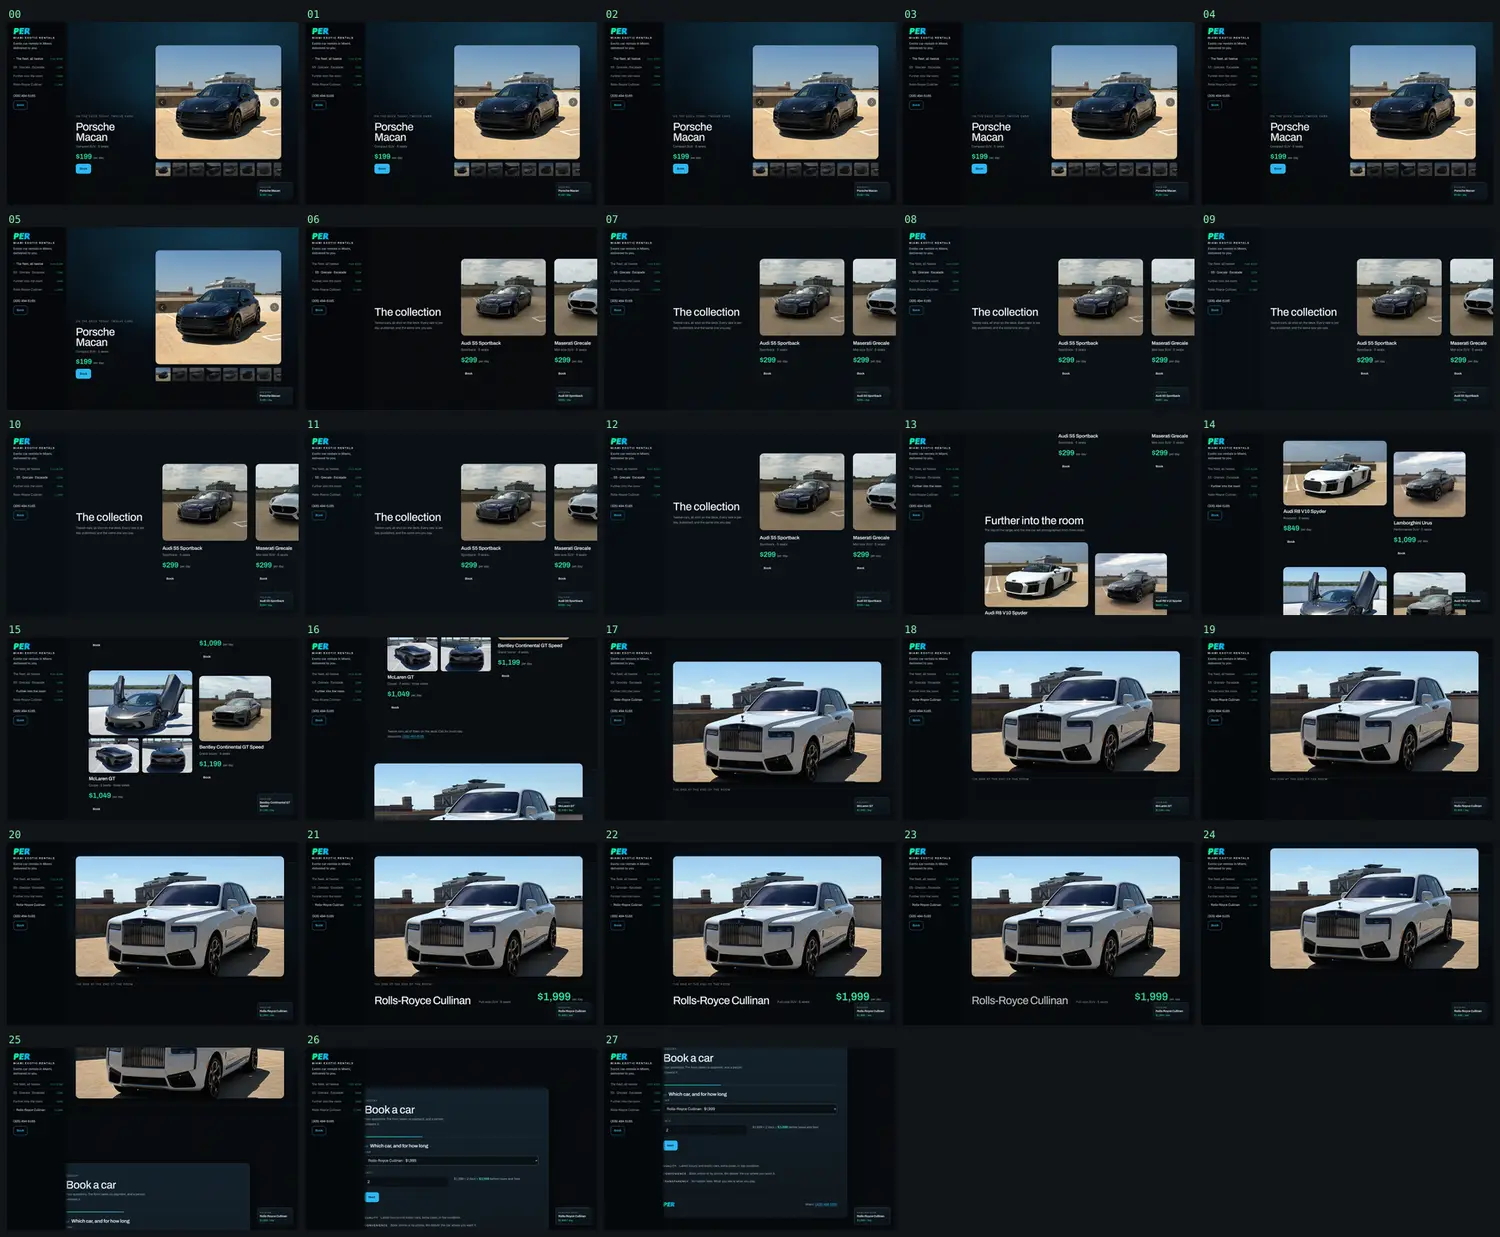
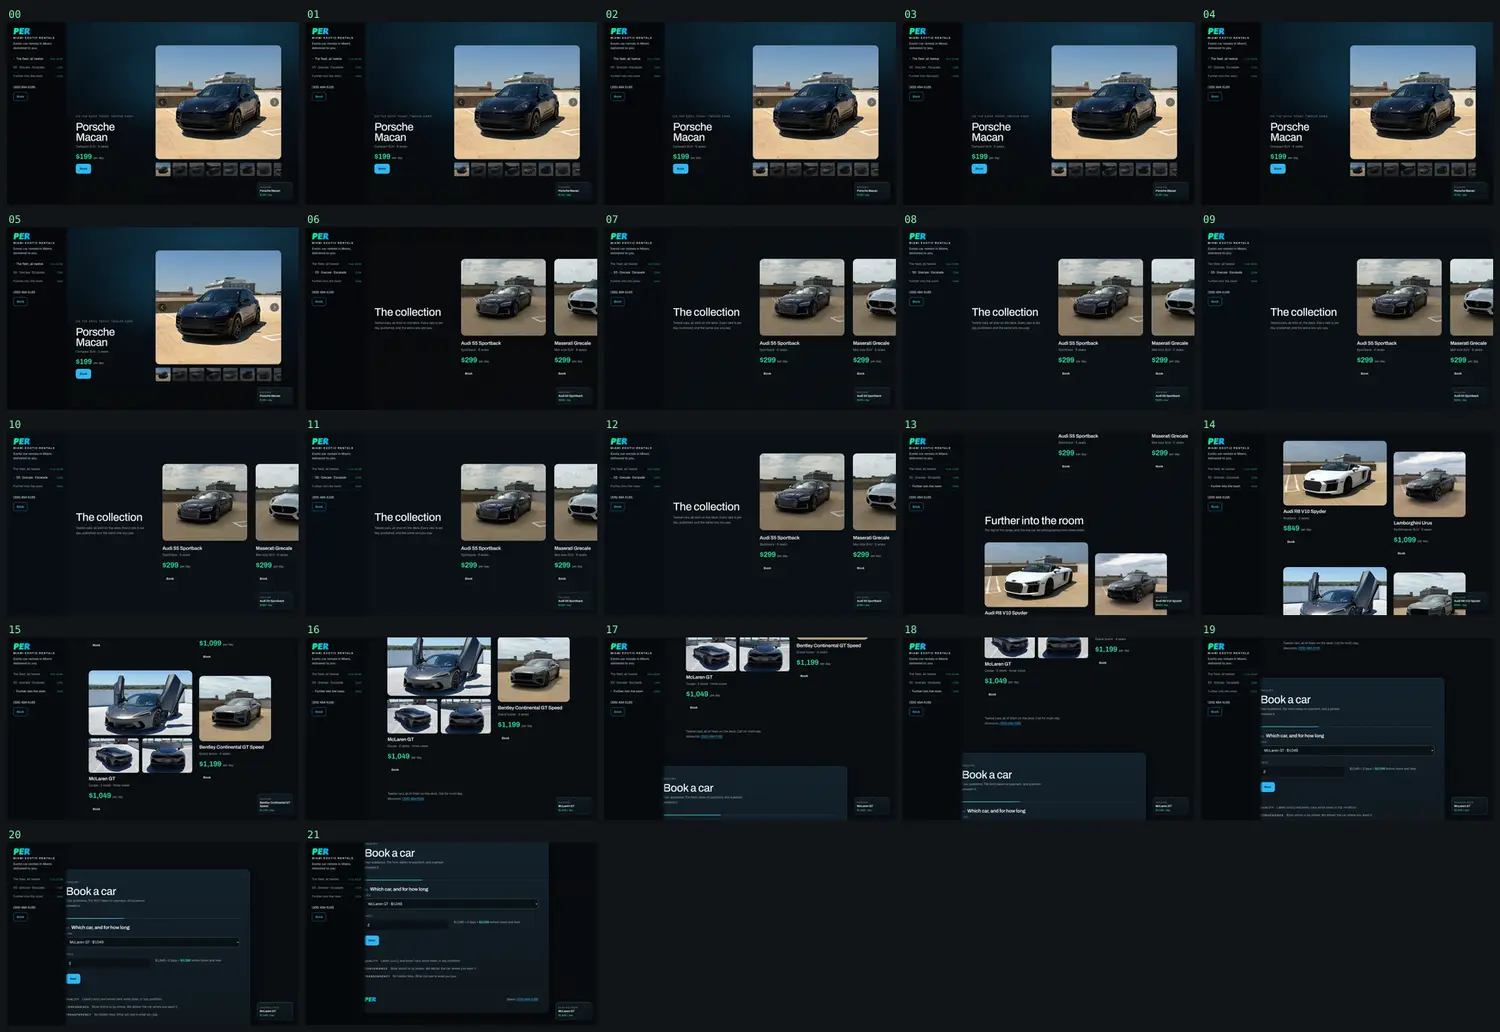
Remove the Rolls-Royce peak act
The owner cut the pinned act that held the Cullinan ("the one at the end of
the room") and, asked whether the car should keep a place further down the
page, said it is fine for it to show only in the hero switcher. Both are done:
the act is gone and the car appears in the switcher and the booking select,
nowhere else.

- four acts now, pin > pan > flow > flow, 10.2 viewport-heights against 13.5
- each object in the mosaic arrives behind its own staggered wipe, so the act
  before the close is a reveal act rather than a second fade-in section next
  to it
- the standing index drops to three rows; the peak's own keyboard handler,
  its tag-stamping branch and all of its CSS go with it

Worth recording plainly: the page no longer has one engineered peak. What it
gains is length and a first screen that reaches every car; what it loses is
the single moment a visitor would have described to someone afterwards. That
trade is the owner's and BRIEF.md says so.

The contact sheets committed with the previous change were unreliable: two
shoot runs raced into the same folder and the sheet interleaved frames from
both builds. These were shot sequentially against the current page and show
22 frames of it.

Re-verified: 10.2vh desktop, 10.0vh phone, 10.2vh reduced motion, no dead
scroll, every cue clears 4.5:1 on the composited page, and the mosaic's wipes
confirmed running in a flow act.

Claude-Session: https://claude.ai/code/session_01WNHnTBcKyrBsYk1asL9UUS

diff --git a/sites/per-miami/per.js b/sites/per-miami/per.js
@@ -21,8 +21,7 @@
   var acts = [
     { id: "act-hero", el: document.getElementById("hero") },
     { id: "act-collection", el: document.getElementById("collection") },
-    { id: "act-room", el: document.getElementById("room") },
-    { id: "act-cullinan", el: document.getElementById("cullinan") }
+    { id: "act-room", el: document.getElementById("room") }
   ];
   var links = {};
   Array.prototype.forEach.call(document.querySelectorAll("[data-index-for]"), function (a) {
@@ -186,8 +185,8 @@
     if (opts && opts.lock) {
       // Taken before the equality check below: clicking a Reserve that hover
       // had already stamped would otherwise return early, leave the choice
-      // unlocked, and let the smooth scroll past the peak restamp the tag
-      // with the Cullinan on its way to the form.
+      // unlocked, and let the smooth scroll down the page restamp the tag
+      // with whatever it passed on the way to the form.
       state.locked = true;
       state.lockUntil = Date.now() + 1800;   // covers the jump itself
     }
@@ -242,21 +241,8 @@
     var hero = document.getElementById("hero").getBoundingClientRect();
     var rail = document.getElementById("collection").getBoundingClientRect();
     var room = document.getElementById("room").getBoundingClientRect();
-    var peakEl = document.getElementById("cullinan");
-    var peak = peakEl.getBoundingClientRect();
     var pick;
 
-    if (peak.top <= mid && peak.bottom > mid) {
-      // Not the moment the stage arrives: a pinned stage is on screen for a
-      // whole viewport before its progress leaves 0, so stamping on arrival
-      // put the Cullinan on the tag while its frame was still empty, which
-      // both spoiled the wipe and named a car nobody could see. Wait for the
-      // wipe to actually start.
-      var travel = Math.max(peakEl.offsetHeight - window.innerHeight, 1);
-      var pp = (-peak.top) / travel;
-      if (pp > 0.12) stamp("Rolls-Royce Cullinan");
-      return;
-    }
     // the mosaic travels vertically rather than laterally, and a phone has no
     // hover at all, so without this the tag went stale for a whole act there
     if (room.top <= mid && room.bottom > mid) {
@@ -392,52 +378,6 @@
   tagName.textContent = state.car;
   tagRate.textContent = "$" + RATES[state.car].toLocaleString("en-US") + " / day";
   wake();
-
-  /* A focusable control inside a pinned act holds one viewport position for
-     the whole act, so the engine's centre-on-focus cannot open its cue: it can
-     only scroll backwards out of the act, where progress is 0 and the cue is
-     dark. Only the page knows which cue belongs to which control, so the peak's
-     Reserve parks its own act at the progress where its cue is open. */
-  /* A flow-section reveal fires on scroll, so tabbing to a link in a group
-     that has not entered the viewport yet lands on something at opacity 0.
-     Open the group the focus is in. */
-  document.addEventListener("focusin", function (e) {
-    var group = e.target.closest("[data-sc-in]");
-    if (group && !group.classList.contains("sc-in")) {
-      group.classList.add("sc-in");
-      Array.prototype.forEach.call(group.children, function (k) { k.classList.add("sc-in"); });
-    }
-  });
-
-  /* Same class of problem on the rail, one axis over: a card's Reserve can be
-     focused while the card itself is parked off the left edge and dimmed by the
-     settle, because neither position is something the engine knows how to open.
-     Park the pan act at the progress that walks that card to the middle. */
-  var railAct = document.getElementById("collection");
-  var railEl = railAct.querySelector("[data-sc-pan]");
-  Array.prototype.forEach.call(railAct.querySelectorAll("a, button"), function (el) {
-    el.addEventListener("focus", function () {
-      var item = el.closest(".rail > *");
-      if (!item) return;
-      var travel = railEl.scrollWidth - window.innerWidth;
-      if (travel <= 0) return;
-      var want = item.offsetLeft + item.offsetWidth / 2 - window.innerWidth / 2;
-      var p = clamp(want / travel, 0, 1);
-      var top = railAct.getBoundingClientRect().top + window.pageYOffset;
-      var span = Math.max(railAct.offsetHeight - window.innerHeight, 1);
-      window.scrollTo({ top: Math.round(top + span * p), behavior: "instant" });
-    });
-  });
-
-  var peak = document.getElementById("cullinan");
-  var peakCta = peak.querySelector(".button");
-  peakCta.addEventListener("focus", function () {
-    var rect = peak.getBoundingClientRect();
-    var top = rect.top + window.pageYOffset;
-    var travel = Math.max(peak.offsetHeight - window.innerHeight, 1);
-    var open = 0.74;  // the cue opens by 0.60; 0.74 sits inside its plateau
-    window.scrollTo({ top: Math.round(top + travel * open), behavior: "instant" });
-  });
 
   /* ------------------------------------------------------------ 4 · survey */
   var form = document.getElementById("survey");

diff --git a/sites/per-miami/index.html b/sites/per-miami/index.html
@@ -31,7 +31,6 @@
       <li><a href="#hero" data-index-for="act-hero"><span class="index__n">The fleet, all twelve</span><span class="index__s">The fleet</span><span class="index__r index__r--from"><span class="index__pre">from </span>$199</span></a></li>
       <li><a href="#collection" data-index-for="act-collection"><span class="index__n">S5 · Grecale · Escalade</span><span class="index__s">Collection</span><span class="index__r">299</span></a></li>
       <li><a href="#room" data-index-for="act-room"><span class="index__n">Further into the room</span><span class="index__s">The room</span><span class="index__r">849</span></a></li>
-      <li><a href="#cullinan" data-index-for="act-cullinan"><span class="index__n">Rolls-Royce Cullinan</span><span class="index__s">Cullinan</span><span class="index__r">1,999</span></a></li>
     </ol>
   </nav>
 
@@ -281,7 +280,7 @@
 
       <div class="room">
         <article class="object object--wide" id="r8">
-          <div class="object__shot">
+          <div class="object__shot" data-sc-reveal="up" data-sc-reveal-at="0.1 0.3">
             <img loading="lazy" src="assets/r8.webp"
                  srcset="assets/r8-m.webp 780w, assets/r8.webp 1400w"
                  sizes="(max-width: 1040px) 86vw, 46vw" width="1400" height="1270"
@@ -296,7 +295,7 @@
         </article>
 
         <article class="object object--tall" id="urus">
-          <div class="object__shot">
+          <div class="object__shot" data-sc-reveal="up" data-sc-reveal-at="0.16 0.36">
             <img loading="lazy" src="assets/urus.webp"
                  srcset="assets/urus-m.webp 780w, assets/urus.webp 1400w"
                  sizes="(max-width: 1040px) 86vw, 32vw" width="1400" height="1270"
@@ -313,7 +312,7 @@
         <!-- The one object photographed from three sides, so the one shown as a
              study: the doors up, then the two views you would walk round to. -->
         <article class="object object--study" id="mclaren">
-          <div class="object__shot">
+          <div class="object__shot" data-sc-reveal="up" data-sc-reveal-at="0.3 0.5">
             <img loading="lazy" src="assets/mclaren.webp"
                  srcset="assets/mclaren-m.webp 780w, assets/mclaren.webp 1400w"
                  sizes="(max-width: 1040px) 86vw, 46vw" width="1400" height="1270"
@@ -342,7 +341,7 @@
         </article>
 
         <article class="object object--tall" id="bentley">
-          <div class="object__shot">
+          <div class="object__shot" data-sc-reveal="up" data-sc-reveal-at="0.38 0.58">
             <img loading="lazy" src="assets/bentley.webp"
                  srcset="assets/bentley-m.webp 780w, assets/bentley.webp 1400w"
                  sizes="(max-width: 1040px) 86vw, 32vw" width="1400" height="1270"
@@ -364,34 +363,7 @@
     </div>
   </section>
 
-  <!-- 4 · AWE · the peak. A reveal is a change of state, which is the one
-       thing this page does loudly. Largest span, the best frame, and the
-       silence of act 3 in front of it. Ground first, so the stage is never
-       empty while it slides in. -->
-  <section id="cullinan" class="act-peak" data-sc-act="pin" data-sc-span="3.3" data-sc-drift="#04070A" aria-labelledby="cullinan-h">
-    <div data-sc-stage class="peak">
-      <div class="peak__ground" aria-hidden="true">
-        <div class="peak__empty"></div>
-      </div>
-
-      <figure class="peak__frame" data-sc-reveal="up" data-sc-reveal-at="0.04 0.44">
-        <img src="assets/cullinan.webp"
-             srcset="assets/cullinan-m.webp 780w, assets/cullinan.webp 1400w"
-             sizes="(max-width: 1040px) 92vw, 1240px" width="1400" height="1270"
-             alt="A white Rolls-Royce Cullinan Black Badge on the open rooftop deck in full sun.">
-      </figure>
-
-      <div class="peak__label">
-        <p class="label__kind" data-sc-cue="0 1 0 0.08">The one at the end of the room</p>
-        <h2 class="label__name sc-display sc-display--lg" id="cullinan-h" data-sc-cue="0.4 1 0.16 0.05">Rolls-Royce Cullinan</h2>
-        <p class="label__spec" data-sc-cue="0.46 1 0.16 0.05">Full-size SUV · 5 seats</p>
-        <p class="label__rate label__rate--peak" data-sc-cue="0.5 1 0.14 0.05"><span class="rate">$1,999</span> <span class="rate__unit">per day</span></p>
-        <a class="button" href="#reserve" data-car="Rolls-Royce Cullinan" data-sc-cue="0.54 1 0.12 0.05" data-sc-rise="0">Book</a>
-      </div>
-    </div>
-  </section>
-
-  <!-- 5 · RESOLVE · the close. An inquiry plate typeset like the object
+  <!-- 4 · RESOLVE · the close. An inquiry plate typeset like the object
        labels, so the ask reads as part of the collection. Flow, not pinned: a
        form inside a pinned stage is a keyboard trap, and the page resolves by
        holding still rather than by fading out. -->

diff --git a/sites/per-miami/per.css b/sites/per-miami/per.css
@@ -542,66 +542,6 @@ body { overflow-x: clip; }
 }
 @media (hover: hover) and (pointer: fine) { .fleet__go:hover { border-bottom-color: var(--sc-accent); } }
 
-/* ------------------------------------------------------------- 4 · peak --
-   The object at the end of the room. An empty frame is already there while
-   the stage slides in, so the ground is never blank, and the wipe fills it. */
-.peak {
-  display: grid;
-  grid-template-rows: 1fr auto;
-  align-content: center;
-  justify-items: center;
-  gap: clamp(1.25rem, 3vh, 2.25rem);
-  padding: clamp(4.5rem, 11vh, 8rem) var(--sc-gutter) clamp(2.5rem, 7vh, 5rem)
-           var(--per-content-x);
-}
-.peak__ground {
-  position: absolute; inset: 0;
-  background:
-    radial-gradient(90% 60% at 50% 34%, color-mix(in oklab, #0A1A24 78%, transparent) 0%, transparent 70%),
-    var(--sc-canvas);
-}
-.peak__empty {
-  position: absolute;
-  left: var(--per-content-x);
-  right: var(--sc-gutter);
-  top: clamp(4.5rem, 11vh, 8rem);
-  margin-inline: auto;
-  width: min(100%, 1240px);
-  height: min(66svh, 760px);
-  border-radius: var(--sc-r-lg);
-  box-shadow: inset 0 0 0 1px color-mix(in oklab, var(--sc-ink) 16%, transparent);
-  background: radial-gradient(120% 90% at 50% 40%,
-    color-mix(in oklab, #0C1A24 60%, transparent) 0%, transparent 76%);
-}
-.peak__frame {
-  grid-row: 1;
-  align-self: start;
-  width: min(100%, 1240px);
-  height: min(66svh, 760px);
-  margin: 0;
-  overflow: clip;
-  border-radius: var(--sc-r-lg);
-  box-shadow: var(--sc-e3);
-  position: relative;
-  z-index: 2;
-}
-.peak__frame img { width: 100%; height: 100%; object-fit: cover; object-position: 50% 46%; }
-.peak__label {
-  grid-row: 2;
-  z-index: 3;
-  width: min(100%, 1240px);
-  display: grid;
-  grid-template-columns: auto 1fr auto;
-  align-items: end;
-  gap: 0.4rem clamp(1rem, 3vw, 2.5rem);
-}
-.peak__label .label__kind { grid-column: 1 / -1; }
-.peak__label .label__name { grid-column: 1; font-size: var(--sc-t-2xl); }
-.peak__label .label__spec { grid-column: 2; padding-bottom: 0.35rem; }
-.peak__label .label__rate--peak { grid-column: 3; grid-row: 2; }
-.peak__label .label__rate--peak .rate { font-size: var(--sc-t-2xl); }
-.peak__label .button { grid-column: 3; grid-row: 3; justify-self: end; margin-top: 0.6rem; }
-
 /* ------------------------------------------------------------ 5 · close --
    An inquiry plate set exactly like an object label, so the ask reads as part
    of the collection rather than as a marketing island. */
@@ -883,13 +823,6 @@ body { overflow-x: clip; }
   .room .object--study .object__shot { aspect-ratio: 4 / 3; }
   .object__shot img { object-position: 50% 48%; }
 
-  .peak { padding-top: clamp(5.5rem, 14vh, 8rem); padding-left: var(--sc-gutter); }
-  .peak__empty { left: var(--sc-gutter); right: var(--sc-gutter); }
-  .peak__label { grid-template-columns: 1fr auto; }
-  .peak__label .label__name { grid-column: 1 / -1; }
-  .peak__label .label__spec { grid-column: 1; padding-bottom: 0; }
-  .peak__label .label__rate--peak { grid-column: 2; grid-row: 3; justify-self: end; }
-  .peak__label .button { grid-column: 1 / -1; grid-row: 4; justify-self: start; }
 
   /* keep the header's prose clear of the docked tag */
   .plate__head { padding-right: 9.5rem; }

diff --git a/sites/per-miami/BRIEF.md b/sites/per-miami/BRIEF.md
@@ -71,13 +71,22 @@ Written before the acts existed.
 2  Appetite    the room walks past them: six cars, each labelled like an
                exhibit, each one gettable
 3  Weight      the room opens out and the top of the range arrives at a
-               different size and rhythm, one of them photographed from three
-               sides, then the type goes small and states the whole fleet
-4  Awe         the frame wipes open and the white Rolls-Royce is the whole
-               screen at $1,999, the largest number on the page
-5  Resolve     the key tag they have been carrying lands in the form, the ask
+               different size and rhythm, each object behind its own wipe,
+               one of them photographed from three sides, then the type goes
+               small and states the whole fleet
+4  Resolve     the key tag they have been carrying lands in the form, the ask
                is one plate, and the page stops
 ```
+
+**The page no longer has one engineered peak, and that is a deliberate trade,
+not an oversight.** The Rolls-Royce had a pinned act of its own: an empty frame,
+a wipe, the car at full width, $1,999. The owner cut it. What the page gains is
+length (10.2 viewport-heights against 13.5) and a first screen that can reach
+every car; what it loses is the one moment a visitor would have described to
+someone else afterwards. The flagship now appears only in the hero switcher, at
+the owner's explicit instruction: "it's ok if it only shows in the hero
+switcher." The closest thing to a peak left is flicking the switcher to the
+Rolls and watching $199 become $1,999 in one movement.
 
 No two adjacent acts share a feeling. Act 3 **ends** in the authored silence:
 it opens out into four large objects, then closes on one line of the smallest
@@ -219,14 +228,17 @@ the call button. Green never becomes a button; blue never becomes a price.
 | 1 | The fleet, in one frame | `parallax` (gradient ground, glow, plate, floor) + a bespoke switcher | The first screen has to show the range, not one car, and the depth has to come from motion and overlap rather than from photographs of the place | 1.9 |
 | 2 | The collection | `pan` + `tilt` | Lateral travel reads as breadth, which is the whole question a fleet answers. Six objects cost the page nothing in height here, which is why the rail carries the wider half of the range | 5.2 |
 | 3 | Further into the room | `flow` + `in`, asymmetric mosaic, one object as a three-view study | Twelve objects will not all fit one rail at a readable pace, and a second rail would be the same act twice. The mosaic is a different size and rhythm, the study gives the one multi-angle car the treatment its coverage allows, and the quiet tail is the silence | ~3.4 |
-| 4 | The flagship | `reveal` (up, edge to edge) on a `pin` | A wipe is a change of state, and this is the one moment the page raises its voice | 3.3 |
-| 5 | The ask | `flow`, static plate | A form inside a pinned stage is a keyboard trap. The close resolves by holding still | ~2.0 |
+| 4 | The ask | `flow`, static plate | A form inside a pinned stage is a keyboard trap. The close resolves by holding still | ~2.0 |
 
-Five device families (parallax, pan, flow/in, reveal, pointer). No family twice
-in a row. No `scrub` at all, so no clip weight and no frozen-clip class of
-failure. Measured at **13.5 viewport-heights on desktop and 13.2 on a phone**, inside
-the 8-to-14 budget; the phone crop is 4:3 rather than the source's near-square,
-which is what keeps it there.
+The fourth act, a pinned peak for the Rolls-Royce, was removed on the owner's
+instruction along with the car's place in the scroll. Act 3's objects each
+arrive behind their own wipe now, so the act that precedes the close is a
+`reveal` act rather than a second fade-in section next to it.
+
+Five device families (parallax, pan, reveal, flow/in, pointer), plus the hero's
+own switcher. No family twice in a row. No `scrub` at all, so no clip weight and
+no frozen-clip class of failure. Measured at **10.2 viewport-heights on desktop**,
+inside the 8-to-14 budget with room to spare now that the peak act is gone.
 
 ## Fleet and prices
 
@@ -243,7 +255,7 @@ standing in for a picture.
 
 | Car | Rate / day | On the page as |
 |---|---|---|
-| Porsche Macan | $199 | act 1, the switcher's first car |
+| Porsche Macan | $199 | act 1 switcher only, its first car |
 | Audi S5 Sportback | $299 | act 1 switcher, then act 2 rail |
 | Maserati Grecale | $299 | act 1 switcher, then act 2 rail |
 | Cadillac Escalade ESV | $399 | act 1 switcher, then act 2 rail |
@@ -254,7 +266,7 @@ standing in for a picture.
 | McLaren GT | $1,049 | act 1 switcher, then act 3 as a three-view study |
 | Lamborghini Urus | $1,099 | act 1 switcher, then act 3 mosaic |
 | Bentley Continental GT Speed | $1,199 | act 1 switcher, then act 3 mosaic |
-| Rolls-Royce Cullinan | $1,999 | act 1 switcher, then act 4, the peak |
+| Rolls-Royce Cullinan | $1,999 | act 1 switcher only, on the owner's instruction |
 
 **The McLaren's registration plate is blurred in both rear views.** It was
 legible in the supplied frames, and a fleet's plates do not belong on a public

diff --git a/sites/per-miami/README.md b/sites/per-miami/README.md
@@ -111,9 +111,9 @@ wide, generated by the same pipeline.
 
 The one interaction built for this site alone. A valet tag hangs in the corner
 for the whole page and stamps itself with whichever car is in front of the
-reader: the hero, whichever card is centred in the rail, whichever object is
-centred in the mosaic, the Rolls-Royce once its wipe has started, or anything
-the pointer touches. On a phone, where there is no hover at all, it follows the
+reader: whatever the hero switcher is showing, whichever card is centred in the
+rail, whichever object is centred in the mosaic, or anything the pointer
+touches. On a phone, where there is no hover at all, it follows the
 scroll. Clicking a Reserve outranks the scroll and locks the tag to that car.
 
 It says **holding**, and it means it: through the quiet tail before the peak it
@@ -165,9 +165,9 @@ motion, plus the functional passes:
 - the key tag stamps correctly from hover, from a click (which locks it), and
   from scroll position in both the rail and the mosaic, on desktop and on a
   touch viewport
-- keyboard: every focus stop is on screen and lit, including the cued Book
-  inside the pinned peak act and the cards parked off the edge of the rail. The
-  hero's strip is one stop with the arrow keys walking it, not twelve stops
+- keyboard: every focus stop is on screen and lit, including the cards parked
+  off the edge of the rail. The hero's strip is one stop with the arrow keys
+  walking it, not twelve stops
 - the survey: validation, the estimate, the endpoint failure path, the text
   and copy handoffs
 - no console errors and no failed requests beyond the stub endpoint's 404
